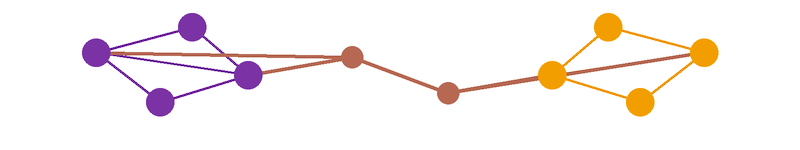
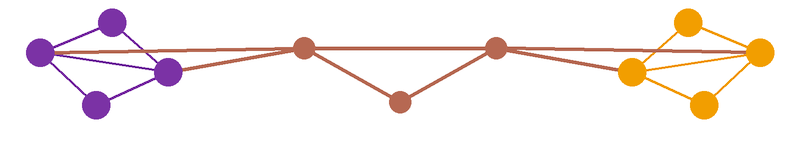
Tile research images to fill full text width
Emotions and Rituals now repeated 3× across width; Narratives increased
to 13 chevrons; Interactions nodes spread to edges.

Changed region(s): [[0.0312, 0.0533, 0.9688, 0.8]]

diff --git a/make_research_icons.py b/make_research_icons.py
@@ -24,14 +24,14 @@ def save(img, name):
 
 
 # ── 1. Empowerment Narratives ──────────────────────────────────────────────
-# Ascending chevrons — rising, directional, hopeful
+# More chevrons (13) spread evenly across full width
 img = canvas(); d = ImageDraw.Draw(img)
-n = 7
+n = 13
 xs = [int(WS * (i + 1) / (n + 1)) for i in range(n)]
-base_size = int(HS * 0.28)
+base_size = int(HS * 0.22)
 for i, x in enumerate(xs):
-    frac = i / (n - 1)
-    size = int(base_size + HS * 0.38 * frac)
+    frac = (i % 7) / 6          # repeat the rising pattern across groups
+    size = int(base_size + HS * 0.42 * frac)
     color = PURPLE if i % 2 == 0 else ORANGE
     lw = 7 * SCALE
     cy = HS // 2 + int(HS * 0.04)
@@ -46,27 +46,28 @@ save(img, "res_narratives")
 
 
 # ── 2. Intergroup Interactions ─────────────────────────────────────────────
-# Two clusters of dots connected by bridging lines — alliance, contact
+# Two clusters spread to edges, with more bridging nodes in between
 img = canvas(); d = ImageDraw.Draw(img)
 c1 = [(int(WS*f[0]), int(HS*f[1])) for f in
-      [(0.12, 0.35), (0.20, 0.68), (0.31, 0.50), (0.24, 0.18)]]
+      [(0.05, 0.35), (0.12, 0.70), (0.21, 0.48), (0.14, 0.15)]]
 c2 = [(int(WS*f[0]), int(HS*f[1])) for f in
-      [(0.88, 0.35), (0.80, 0.68), (0.69, 0.50), (0.76, 0.18)]]
-br = [(int(WS*0.44), int(HS*0.38)), (int(WS*0.56), int(HS*0.62))]
+      [(0.95, 0.35), (0.88, 0.70), (0.79, 0.48), (0.86, 0.15)]]
+br = [(int(WS*0.38), int(HS*0.32)), (int(WS*0.50), int(HS*0.68)),
+      (int(WS*0.62), int(HS*0.32))]
 
 edges1 = [(0,1),(1,2),(2,0),(0,3),(3,2)]
 edges2 = [(0,1),(1,2),(2,0),(0,3),(3,2)]
-cross  = [(c1[2], br[0]), (c2[2], br[1]), (br[0], br[1]),
-          (c1[0], br[0]), (c2[0], br[1])]
+cross  = [(c1[2], br[0]), (br[0], br[1]), (br[1], br[2]), (br[2], c2[2]),
+          (c1[0], br[0]), (c2[0], br[2]), (br[0], br[2])]
 
 for a, b in edges1:
     d.line([c1[a], c1[b]], fill=(*PURPLE, 80), width=3*SCALE)
 for a, b in edges2:
     d.line([c2[a], c2[b]], fill=(*ORANGE, 80), width=3*SCALE)
+mid = (PURPLE[0]//2 + ORANGE[0]//2,
+       PURPLE[1]//2 + ORANGE[1]//2,
+       PURPLE[2]//2 + ORANGE[2]//2)
 for p1, p2 in cross:
-    mid = (PURPLE[0]//2 + ORANGE[0]//2,
-           PURPLE[1]//2 + ORANGE[1]//2,
-           PURPLE[2]//2 + ORANGE[2]//2)
     d.line([p1, p2], fill=(*mid, 160), width=4*SCALE)
 
 R = 14 * SCALE
@@ -76,7 +77,7 @@ for pt in c2:
     d.ellipse([pt[0]-R, pt[1]-R, pt[0]+R, pt[1]+R], fill=(*ORANGE, 255))
 for pt in br:
     rb = 11 * SCALE
-    d.ellipse([pt[0]-rb, pt[1]-rb, pt[0]+rb, pt[1]+rb], fill=(182, 104, 82, 255))
+    d.ellipse([pt[0]-rb, pt[1]-rb, pt[0]+rb, pt[1]+rb], fill=(*mid, 255))
 save(img, "res_interactions")
 
 
@@ -90,11 +91,10 @@ gap    =  4 * SCALE
 for i in range(n_bars):
     y1 = pad_y + i * bar_h
     y2 = y1 + bar_h - gap
-    if i == 2:                          # the "excluded" bar
+    if i == 2:
         x1 = int(WS * 0.20)
         x2 = int(WS * 0.60)
         d.rectangle([x1, y1, x2, y2], fill=(*ORANGE, 230))
-        # small gap markers at truncated ends
         for xm in (x1, x2):
             d.line([(xm, y1), (xm, y2)], fill=(*WHITE, 255), width=5*SCALE)
     else:
@@ -105,40 +105,46 @@ save(img, "res_discrimination")
 
 
 # ── 4. Emotions ────────────────────────────────────────────────────────────
-# Concentric ellipses radiating from centre — emotional resonance / ripples
+# Three sets of concentric ellipses tiled across full width
 img = canvas(); d = ImageDraw.Draw(img)
-cx, cy = WS // 2, HS // 2
-n_rings = 6
-for i in range(n_rings, 0, -1):
-    rx = i * int(WS * 0.085)
-    ry = i * int(HS * 0.110)
-    color = PURPLE if i % 2 == 0 else ORANGE
-    lw = (n_rings - i + 2) * SCALE
-    d.ellipse([cx-rx, cy-ry, cx+rx, cy+ry], outline=(*color, 220), width=lw)
-r = 13 * SCALE
-d.ellipse([cx-r, cy-r, cx+r, cy+r], fill=(*PURPLE, 255))
+n_rings  = 5
+cx_list  = [WS // 6, WS // 2, 5 * WS // 6]
+rx_max   = WS // 6                    # reaches neighbour's centre
+ry_max   = HS // 2 - 4 * SCALE       # fills height
+for cx in cx_list:
+    cy = HS // 2
+    for i in range(n_rings, 0, -1):
+        rx = i * rx_max // n_rings
+        ry = i * ry_max // n_rings
+        color = PURPLE if i % 2 == 0 else ORANGE
+        lw = (n_rings - i + 2) * SCALE
+        d.ellipse([cx-rx, cy-ry, cx+rx, cy+ry], outline=(*color, 220), width=lw)
+    r = 10 * SCALE
+    d.ellipse([cx-r, cy-r, cx+r, cy+r], fill=(*PURPLE, 255))
 save(img, "res_emotions")
 
 
 # ── 5. Social Rituals ──────────────────────────────────────────────────────
-# Radial spokes with dots at tips — collective gathering around a centre
+# Three starburst patterns tiled across full width
 img = canvas(); d = ImageDraw.Draw(img)
-cx, cy = WS // 2, HS // 2
-n = 20
-for i in range(n):
-    angle  = 2 * math.pi * i / n - math.pi / 2
-    color  = PURPLE if i % 3 != 0 else ORANGE
-    r_in   = int(HS * 0.16)
-    r_out  = int(HS * 0.40)
-    xi = cx + int(r_in  * math.cos(angle))
-    yi = cy + int(r_in  * math.sin(angle))
-    xo = cx + int(r_out * math.cos(angle))
-    yo = cy + int(r_out * math.sin(angle))
-    d.line([(xi, yi), (xo, yo)], fill=(*color, 170), width=3*SCALE)
-    rd = 10 * SCALE
-    d.ellipse([xo-rd, yo-rd, xo+rd, yo+rd], fill=(*color, 255))
-rc = 16 * SCALE
-d.ellipse([cx-rc, cy-rc, cx+rc, cy+rc], fill=(*PURPLE, 255))
+cx_list = [WS // 6, WS // 2, 5 * WS // 6]
+n       = 18
+r_in    = int(HS * 0.10)
+r_out   = int(HS * 0.42)
+for cx in cx_list:
+    cy = HS // 2
+    for i in range(n):
+        angle = 2 * math.pi * i / n - math.pi / 2
+        color = PURPLE if i % 3 != 0 else ORANGE
+        xi = cx + int(r_in  * math.cos(angle))
+        yi = cy + int(r_in  * math.sin(angle))
+        xo = cx + int(r_out * math.cos(angle))
+        yo = cy + int(r_out * math.sin(angle))
+        d.line([(xi, yi), (xo, yo)], fill=(*color, 170), width=3*SCALE)
+        rd = 9 * SCALE
+        d.ellipse([xo-rd, yo-rd, xo+rd, yo+rd], fill=(*color, 255))
+    rc = 13 * SCALE
+    d.ellipse([cx-rc, cy-rc, cx+rc, cy+rc], fill=(*PURPLE, 255))
 save(img, "res_rituals")
 
 
